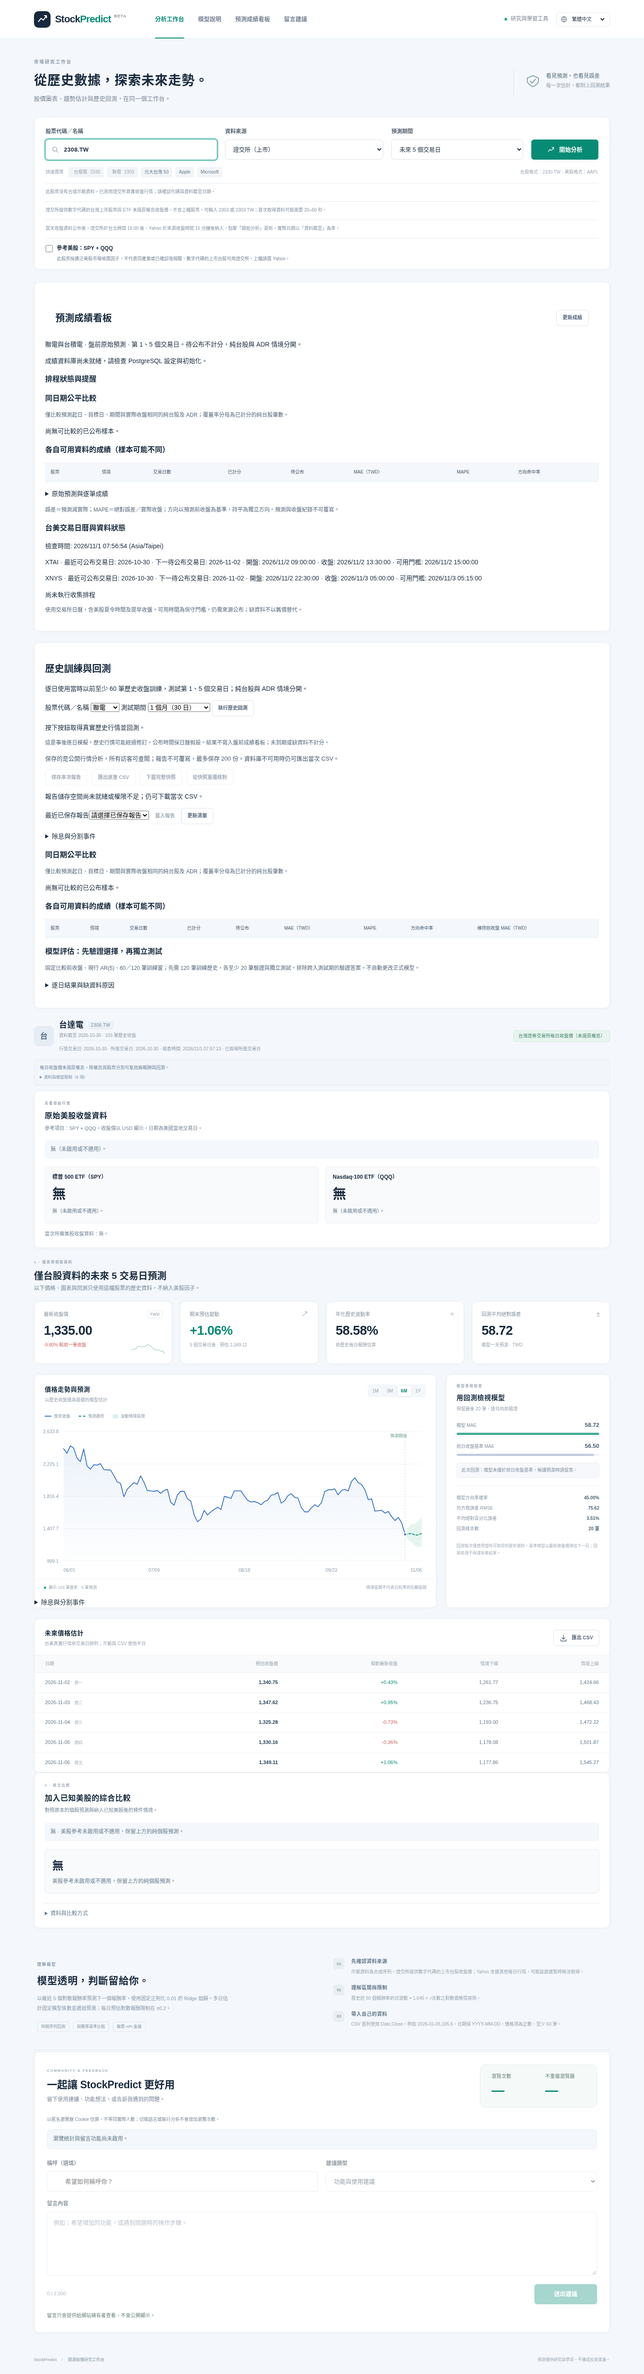
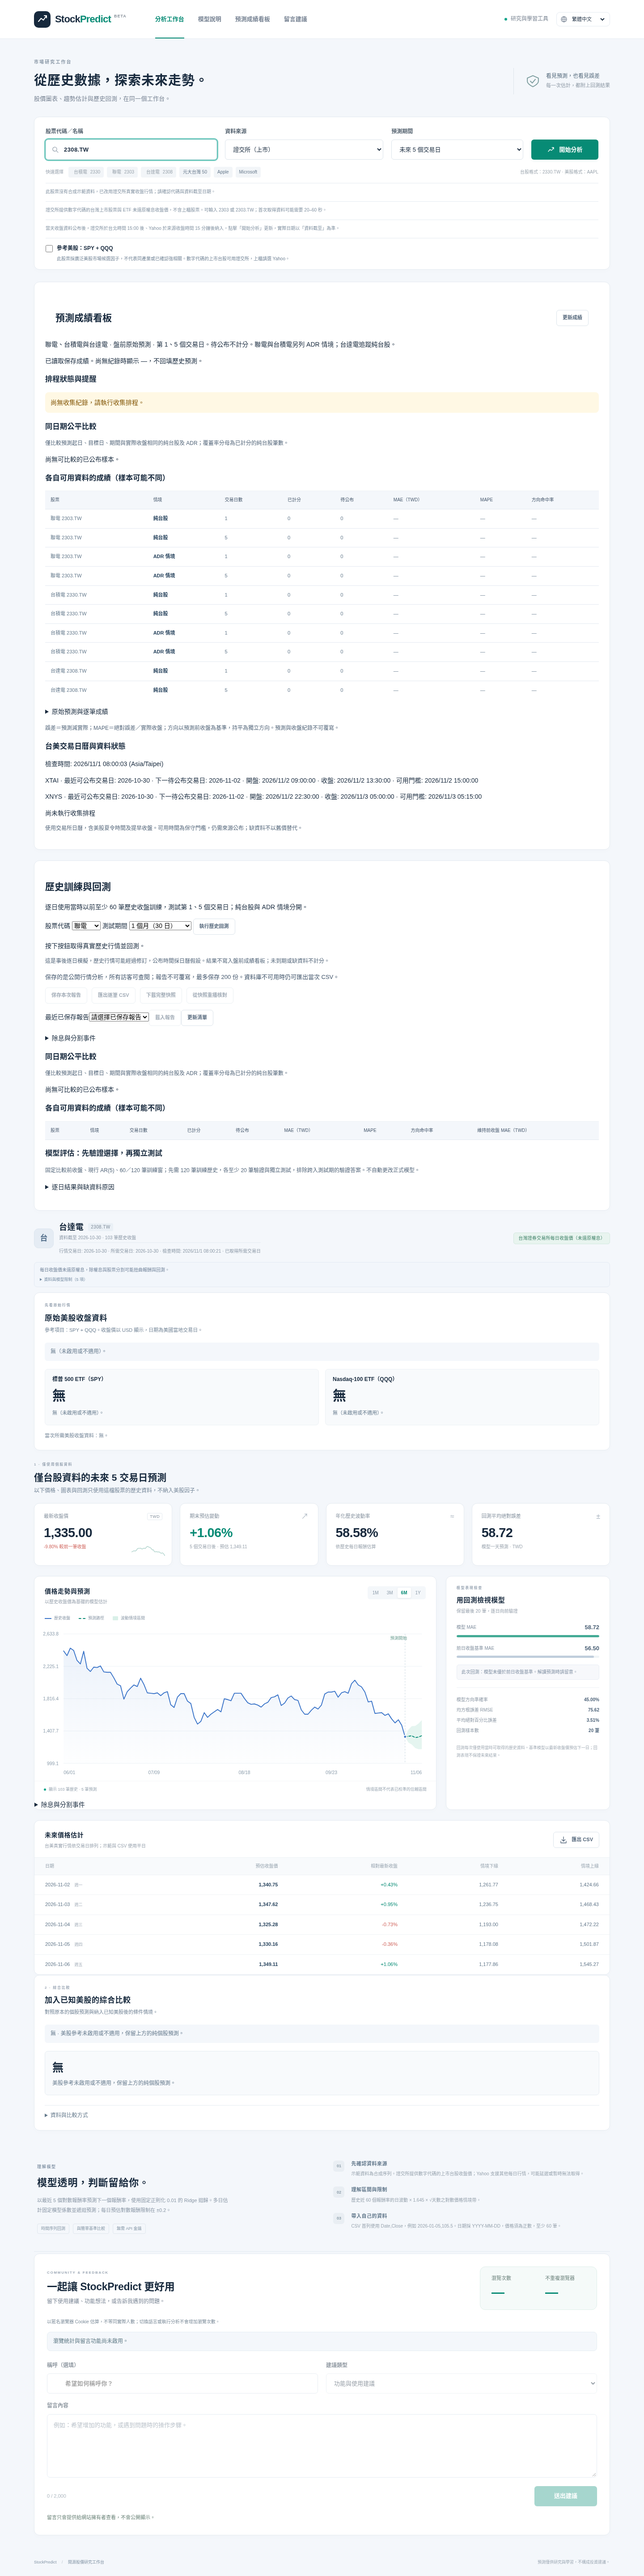
Track Delta Taiwan-only scores and invalidate changed analysis targets

diff --git a/stockpredict/static/scoreboard.js b/stockpredict/static/scoreboard.js
@@ -4,7 +4,7 @@
   i18n.register({
     "zh-TW": {
       "score.title": "預測成績看板", "score.refresh": "更新成績",
-      "score.description": "聯電與台積電 · 盤前原始預測 · 第 1、5 個交易日。待公布不計分，純台股與 ADR 情境分開。",
+      "score.description": "聯電、台積電與台達電 · 盤前原始預測 · 第 1、5 個交易日。待公布不計分。聯電與台積電另列 ADR 情境；台達電追蹤純台股。",
       "score.records": "原始預測與逐筆成績", "score.calendar": "台美交易日曆與資料狀態",
       "score.method": "誤差＝預測減實際；MAPE＝絕對誤差／實際收盤；方向以預測前收盤為基準，持平為獨立方向。預測與收盤紀錄不可覆寫。",
       "score.calendarNote": "使用交易所日曆，含美股夏令時間及提早收盤。可用時間為保守門檻，仍需來源公布；缺資料不以舊價替代。",
@@ -30,7 +30,7 @@
     },
     en: {
       "score.title": "Prediction scoreboard", "score.refresh": "Refresh scores",
-      "score.description": "UMC and TSMC · Original pre-open predictions · Trading days 1 and 5. Pending results are excluded. Taiwan-only and ADR scenarios are scored separately.",
+      "score.description": "UMC, TSMC and Delta Electronics · Original pre-open predictions · Trading days 1 and 5. Pending results are excluded. UMC and TSMC also have separate ADR scores; Delta tracks Taiwan-only forecasts.",
       "score.records": "Original predictions and individual scores", "score.calendar": "Taiwan / US calendar and data status",
       "score.method": "Error = predicted − actual. MAPE = absolute error / actual close. Direction is measured from the base close; flat is a separate direction. Forecasts and closes are immutable.",
       "score.calendarNote": "Exchange calendars include US daylight saving and early closes. Availability is a conservative gate and still requires published source data. Missing dates never use an older price.",
@@ -65,7 +65,7 @@
   }
   const number = value => value == null ? "—" : value.toFixed(2);
   const percent = value => value == null ? "—" : `${number(value)}%`;
-  const stock = symbol => `${symbol === "2303.TW" ? i18n.t("security.umc") : i18n.t("security.tsmc")} ${symbol}`;
+  const stock = symbol => `${i18n.t({"2303.TW":"security.umc","2330.TW":"security.tsmc","2308.TW":"security.delta"}[symbol])} ${symbol}`;
   function row(parent, values, heading = false) {
     const tr = document.createElement("tr");
     values.forEach(value => {

diff --git a/stockpredict/static/index.html b/stockpredict/static/index.html
@@ -56,7 +56,7 @@
         <button class="button button-primary" id="analyze-button" type="submit"><svg viewBox="0 0 24 24" aria-hidden="true"><path d="m4 17 5-6 5 3 6-9M15 5h5v5"/></svg><span data-i18n="controls.analyze">開始分析</span></button>
       </form>
       <div class="controls-footer">
-        <div class="quick-symbols"><span id="symbol-help" data-i18n="controls.quick">快速選擇</span><button type="button" data-symbol="2330.TW"><span data-i18n="security.tsmc">台積電</span> <span>2330</span></button><button type="button" data-symbol="2303.TW" data-source="twse"><span data-i18n="security.umc">聯電</span> <span>2303</span></button><button type="button" data-symbol="0050.TW" data-i18n="security.yuanta">元大台灣 50</button><button type="button" data-symbol="AAPL">Apple</button><button type="button" data-symbol="MSFT">Microsoft</button></div>
+        <div class="quick-symbols"><span id="symbol-help" data-i18n="controls.quick">快速選擇</span><button type="button" data-symbol="2330.TW"><span data-i18n="security.tsmc">台積電</span> <span>2330</span></button><button type="button" data-symbol="2303.TW" data-source="twse"><span data-i18n="security.umc">聯電</span> <span>2303</span></button><button type="button" data-symbol="2308.TW" data-source="twse"><span data-i18n="security.delta">台達電</span> <span>2308</span></button><button type="button" data-symbol="0050.TW" data-i18n="security.yuanta">元大台灣 50</button><button type="button" data-symbol="AAPL">Apple</button><button type="button" data-symbol="MSFT">Microsoft</button></div>
         <span class="small-note" data-i18n="controls.formatHelp">台股格式：2330.TW · 美股格式：AAPL</span>
       </div>
       <p id="symbol-resolution" class="source-help" role="status" data-i18n="controls.realTaiwan" hidden>此股票沒有合成示範資料，已改用證交所真實收盤行情；請確認代碼與資料截至日期。</p>

diff --git a/stockpredict/static/app.js b/stockpredict/static/app.js
@@ -748,8 +748,22 @@
     if(analysis===event.detail.analysis){analysis.corporate_actions=event.detail.actions;renderChart();}
   });
   form.addEventListener("submit", (event) => { event.preventDefault(); runAnalysis(); });
-  source.addEventListener("change", updateSourceUi);
-  symbol.addEventListener("input", updateSourceUi);
+  function formTargetChanged() {
+    if (request) { request.abort(); request = null; ++requestId; setLoading(false); }
+    if (analysis && (analysis.symbol !== resolveSymbol(symbol.value) || analysis.source !== source.value)) {
+      analysis = null;
+      $("results").hidden = true;
+      $("empty-state").hidden = false;
+      window.dispatchEvent(new CustomEvent("stockpredict-data-status", { detail: null }));
+      window.dispatchEvent(new CustomEvent("stockpredict-analysis", { detail: null }));
+    }
+    $("symbol-resolution").hidden = true;
+    $("error-message").hidden = true;
+    errorState = null;
+    updateSourceUi();
+  }
+  source.addEventListener("change", formTargetChanged);
+  symbol.addEventListener("input", formTargetChanged);
   overnightControl.addEventListener("change", updateFactorFilesUi);
   factorSource.addEventListener("change", updateFactorFilesUi);
   $("umc-csv-file").addEventListener("change", (event) => readFactorFile(0, event));

diff --git a/stockpredict/static/i18n.js b/stockpredict/static/i18n.js
@@ -37,6 +37,7 @@
       "controls.quick": "快速選擇",
       "security.tsmc": "台積電",
       "security.umc": "聯電",
+      "security.delta": "台達電",
       "security.yuanta": "元大台灣 50",
       "controls.formatHelp": "台股格式：2330.TW · 美股格式：AAPL",
       "controls.twseHelp": "證交所提供數字代碼的台灣上市股票與 ETF 未還原權息收盤價，不含上櫃股票。可輸入 2303 或 2303.TW；首次取得資料可能需要 20–60 秒。",
@@ -302,6 +303,7 @@
       "controls.quick": "Quick picks",
       "security.tsmc": "TSMC",
       "security.umc": "UMC",
+      "security.delta": "Delta Electronics",
       "security.yuanta": "Yuanta Taiwan 50",
       "controls.formatHelp": "Taiwan: 2330.TW · US: AAPL",
       "controls.twseHelp": "TWSE provides unadjusted closes for Taiwan-listed stocks and ETFs with numeric symbols, excluding OTC stocks. Enter 2303 or 2303.TW. The first download may take 20–60 seconds.",

diff --git a/tests/test_scoreboard.py b/tests/test_scoreboard.py
@@ -259,8 +259,10 @@ def test_job_captures_both_scenarios_and_reports_provider_failure(database, monk
         },
     )
     first = score.run_job()
-    assert all(c["taiwan"] == c["adr"] == "saved" for c in first)
-    assert all(c["taiwan"] == c["adr"] == "already_saved" for c in score.run_job())
+    assert all(c[s] == "saved" for c in first for s in score.scenarios_for(c["symbol"]))
+    assert all(
+        c[s] == "already_saved" for c in score.run_job() for s in score.scenarios_for(c["symbol"])
+    )
 
     def unavailable(symbol):
         from stockpredict.data import DataSourceError
@@ -271,7 +273,7 @@ def test_job_captures_both_scenarios_and_reports_provider_failure(database, monk
     checks = score.run_job()
     assert all(c["status"] == "unavailable" and c["checked_at"] for c in checks)
     body = TestClient(app).get("/api/scoreboard").json()
-    assert len(body["predictions"]) == 8
+    assert len(body["predictions"]) == 10
     assert body["last_check"]["details"] == checks
 
 
@@ -288,10 +290,12 @@ def test_job_after_cutoff_collects_actuals_without_generating_forecasts(database
     monkeypatch.setattr(twse, "twse_data", lambda symbol: (POINTS, {"source": "twse"}))
     monkeypatch.setattr(main, "_market_analysis", lambda *a, **kw: pytest.fail("Late forecast"))
     checks = score.run_job()
-    assert all(c["taiwan"] == c["adr"] == "after_cutoff" for c in checks)
+    assert all(c[s] == "after_cutoff" for c in checks for s in score.scenarios_for(c["symbol"]))
     with database() as conn:
         assert conn.execute("SELECT count(*) AS n FROM sp_predictions").fetchone()["n"] == 0
-        assert conn.execute("SELECT count(*) AS n FROM sp_actual_closes").fetchone()["n"] == 2
+        assert conn.execute("SELECT count(*) AS n FROM sp_actual_closes").fetchone()["n"] == len(
+            score.SYMBOLS
+        )
 
 
 def test_full_trading_week_lifecycle_uses_real_models_and_immutable_postgres(database, monkeypatch):
@@ -355,18 +359,20 @@ def test_full_trading_week_lifecycle_uses_real_models_and_immutable_postgres(dat
     client = TestClient(app)
 
     checks = score.run_job()
-    assert all(c["taiwan"] == c["adr"] == "saved" for c in checks)
+    assert all(c[s] == "saved" for c in checks for s in score.scenarios_for(c["symbol"]))
     with database() as conn:
         originals = conn.execute("SELECT id,snapshot FROM sp_predictions ORDER BY id").fetchall()
-    assert len(originals) == 4
+    assert len(originals) == 5
 
     clock.update(now=datetime.fromisoformat("2026-11-02T08:30:00+08:00"), correction=0.5)
-    assert all(c["taiwan"] == c["adr"] == "already_saved" for c in score.run_job())
+    assert all(
+        c[s] == "already_saved" for c in score.run_job() for s in score.scenarios_for(c["symbol"])
+    )
 
     clock["now"] = datetime.fromisoformat("2026-11-02T14:59:59+08:00")
     score.run_job()
     pending = client.get("/api/scoreboard").json()
-    assert len(pending["predictions"]) == 8
+    assert len(pending["predictions"]) == 10
     assert all(r["status"] == "pending" for r in pending["predictions"])
     assert all(c["paired_samples"] == 0 for c in pending["comparison"])
 
@@ -382,9 +388,11 @@ def test_full_trading_week_lifecycle_uses_real_models_and_immutable_postgres(dat
     )
 
     clock["now"] = datetime.fromisoformat("2026-11-03T09:00:00+08:00")
-    assert all(c["taiwan"] == c["adr"] == "after_cutoff" for c in score.run_job())
+    assert all(
+        c[s] == "after_cutoff" for c in score.run_job() for s in score.scenarios_for(c["symbol"])
+    )
     with database() as conn:
-        assert conn.execute("SELECT count(*) AS n FROM sp_predictions").fetchone()["n"] == 4
+        assert conn.execute("SELECT count(*) AS n FROM sp_predictions").fetchone()["n"] == 5
     late = client.get("/api/scoreboard").json()
     alerts = health_alerts(
         late["predictions"],
@@ -392,13 +400,13 @@ def test_full_trading_week_lifecycle_uses_real_models_and_immutable_postgres(dat
         datetime.fromisoformat("2026-11-02T08:10:00+08:00"),
         now=datetime.fromisoformat("2026-11-03T09:45:00+08:00"),
     )
-    assert len([a for a in alerts if a["code"] == "preopen_missing"]) == 4
+    assert len([a for a in alerts if a["code"] == "preopen_missing"]) == 5
 
     for d in future[1:]:
         clock["now"] = datetime.fromisoformat(f"{d}T15:30:00+08:00")
         score.run_job()
     completed = client.get("/api/scoreboard").json()
-    assert len(completed["predictions"]) == 8
+    assert len(completed["predictions"]) == 10
     assert all(r["status"] == "scored" for r in completed["predictions"])
     assert all(c["paired_samples"] == 1 and c["adr_coverage"] == 1 for c in completed["comparison"])
     for r in completed["predictions"]:
@@ -408,3 +416,24 @@ def test_full_trading_week_lifecycle_uses_real_models_and_immutable_postgres(dat
             conn.execute("SELECT id,snapshot FROM sp_predictions ORDER BY id").fetchall()
             == originals
         )
+
+
+def test_delta_archive_migrates_legacy_constraint_and_rejects_adr(database):
+    with database() as conn:
+        conn.execute("ALTER TABLE sp_predictions DROP CONSTRAINT sp_predictions_symbol_check")
+        conn.execute(
+            "ALTER TABLE sp_predictions ADD CONSTRAINT sp_predictions_symbol_check "
+            "CHECK (symbol IN ('2303.TW','2330.TW'))"
+        )
+        save(conn)
+    with database() as conn:
+        score.initialize(conn)
+        assert score.save_prediction(conn, "2308.TW", "taiwan", POINTS, PATH, NOW, {}) == "saved"
+        with pytest.raises(ValueError):
+            score.save_prediction(conn, "2308.TW", "adr", POINTS, PATH, NOW, {})
+        assert conn.execute("SELECT count(*) AS n FROM sp_predictions").fetchone()["n"] == 2
+    body = TestClient(app).get("/api/scoreboard").json()
+    delta = [s for s in body["summary"] if s["symbol"] == "2308.TW"]
+    assert len(delta) == 2
+    assert {s["scenario"] for s in delta} == {"taiwan"}
+    assert all(s["samples"] == 0 and s["pending"] == 1 for s in delta)

diff --git a/stockpredict/scoreboard.py b/stockpredict/scoreboard.py
@@ -17,9 +17,13 @@ from stockpredict.comparison import paired_comparison
 from stockpredict.provenance import model_manifest
 
 router = APIRouter()
-SYMBOLS = ("2303.TW", "2330.TW")
+SYMBOLS = ("2303.TW", "2330.TW", "2308.TW")
 SCENARIOS = ("taiwan", "adr")
 MODEL = "ar5_adr_directional_v1"
+
+
+def scenarios_for(symbol):
+    return ("taiwan",) if symbol == "2308.TW" else SCENARIOS
 
 
 def connect():
@@ -34,7 +38,7 @@ def initialize(connection):
     connection.execute("""
         CREATE TABLE IF NOT EXISTS sp_predictions (
             id BIGSERIAL PRIMARY KEY,
-            symbol TEXT NOT NULL CHECK (symbol IN ('2303.TW','2330.TW')),
+            symbol TEXT NOT NULL CHECK (symbol IN ('2303.TW','2330.TW','2308.TW')),
             scenario TEXT NOT NULL CHECK (scenario IN ('taiwan','adr')),
             target_date DATE NOT NULL, created_at TIMESTAMPTZ NOT NULL,
             base_date DATE NOT NULL, base_close DOUBLE PRECISION NOT NULL CHECK (base_close > 0),
@@ -67,6 +71,14 @@ def initialize(connection):
         CREATE TRIGGER sp_actual_closes_no_truncate BEFORE TRUNCATE ON sp_actual_closes
             FOR EACH STATEMENT EXECUTE FUNCTION sp_reject_archive_mutation();
     """)
+    connection.execute("""
+        ALTER TABLE sp_predictions DROP CONSTRAINT IF EXISTS sp_predictions_symbol_check;
+        ALTER TABLE sp_predictions ADD CONSTRAINT sp_predictions_symbol_check
+            CHECK (symbol IN ('2303.TW','2330.TW','2308.TW'));
+        ALTER TABLE sp_predictions DROP CONSTRAINT IF EXISTS sp_predictions_delta_scenario_check;
+        ALTER TABLE sp_predictions ADD CONSTRAINT sp_predictions_delta_scenario_check
+            CHECK (symbol <> '2308.TW' OR scenario = 'taiwan');
+    """)
     from stockpredict.backtest_runs import ensure_initialized
 
     ensure_initialized(connection)
@@ -86,7 +98,7 @@ def capture_reason(points, now):
 
 def save_prediction(connection, symbol, scenario, points, path, now, provenance):
     """First on-time snapshot wins. Late/stale/partial forecasts cannot enter the archive."""
-    if symbol not in SYMBOLS or scenario not in SCENARIOS or now.utcoffset() is None:
+    if symbol not in SYMBOLS or scenario not in scenarios_for(symbol) or now.utcoffset() is None:
         raise ValueError("Invalid prediction context")
     reason = capture_reason(points, now)
     if reason:
@@ -169,7 +181,7 @@ def evaluate(predictions, actuals):
                 }
             )
     for symbol in SYMBOLS:
-        for scenario in SCENARIOS:
+        for scenario in scenarios_for(symbol):
             for horizon in (1, 5):
                 group = [
                     r
@@ -192,7 +204,11 @@ def evaluate(predictions, actuals):
                         else None,
                     }
                 )
-    return {"summary": summary, "predictions": rows, "comparison": paired_comparison(rows)}
+    return {
+        "summary": summary,
+        "predictions": rows,
+        "comparison": paired_comparison([r for r in rows if "adr" in scenarios_for(r["symbol"])]),
+    }
 
 
 @router.get("/api/scoreboard")
@@ -346,9 +362,9 @@ def run_job():
             details = {"symbol": symbol, **status}
             reason = capture_reason(points, now)
             if reason:
-                details.update({scenario: reason for scenario in SCENARIOS})
+                details.update({scenario: reason for scenario in scenarios_for(symbol)})
             if status["status"] == "current" and reason is None:
-                for scenario in SCENARIOS:
+                for scenario in scenarios_for(symbol):
                     result = _market_analysis(
                         symbol,
                         "twse",

diff --git a/stockpredict/engineering_loop.py b/stockpredict/engineering_loop.py
@@ -146,17 +146,17 @@ def live_acceptance(report, *, now=None):
             valid = False
         if valid and row.get("status") == "scored":
             cohorts.setdefault(origin, {})[(row["symbol"], row["scenario"], row["horizon"])] = row
-    required = {
-        (s, c, h) for s in ("2303.TW", "2330.TW") for c in ("taiwan", "adr") for h in (1, 5)
-    }
+    from stockpredict.scoreboard import SYMBOLS, scenarios_for
+
+    required = {(s, c, h) for s in SYMBOLS for c in scenarios_for(s) for h in (1, 5)}
     complete = []
     for origin, cohort in cohorts.items():
         if not required <= cohort.keys():
             continue
         if all(
             cohort[s, c, 1][field] == cohort[s, c, 5][field]
-            for s in ("2303.TW", "2330.TW")
-            for c in ("taiwan", "adr")
+            for s in SYMBOLS
+            for c in scenarios_for(s)
             for field in ("id", "created_at", "base_close")
         ):
             complete.append(origin)

diff --git a/stockpredict/monitoring.py b/stockpredict/monitoring.py
@@ -46,8 +46,14 @@ def health_alerts(rows, last_check, started_at, *, now=None):
         and _instant(started_at) <= opens_at(day)
         and now >= opens_at(day) + timedelta(minutes=15)
     ):
-        for symbol in ("2303.TW", "2330.TW"):
-            for scenario in ("taiwan", "adr"):
+        from stockpredict.scoreboard import SYMBOLS, scenarios_for
+
+        for symbol in SYMBOLS:
+            if symbol == "2308.TW" and not any(
+                c.get("symbol") == symbol for c in last_check.get("details", [])
+            ):
+                continue
+            for scenario in scenarios_for(symbol):
                 if not any(
                     r["symbol"] == symbol
                     and r["scenario"] == scenario

diff --git a/stockpredict/historical.py b/stockpredict/historical.py
@@ -24,9 +24,10 @@ from stockpredict.market_data import overnight_factors
 from stockpredict.model_review import review_models
 from stockpredict.overnight import build_context
 from stockpredict.reference_profiles import profile_for
-from stockpredict.scoreboard import SYMBOLS, evaluate
+from stockpredict.scoreboard import evaluate
 from stockpredict.twse import twse_data
 
+SYMBOLS = ("2303.TW", "2330.TW")
 router = APIRouter()
 PERIOD_DAYS = {1: 30, 3: 90, 6: 180, 12: 365}
 

diff --git a/tests/test_engineering_loop.py b/tests/test_engineering_loop.py
@@ -37,7 +37,9 @@ def cohort():
     path = date_path([{}] * 5, "2026-10-01", "XTAI")
     records = []
     for index, (symbol, scenario) in enumerate(
-        (s, c) for s in ("2303.TW", "2330.TW") for c in ("taiwan", "adr")
+        (s, c)
+        for s in ("2303.TW", "2330.TW", "2308.TW")
+        for c in (("taiwan",) if s == "2308.TW" else ("taiwan", "adr"))
     ):
         for h in (1, 5):
             records.append(

diff --git a/ENGINEERING_LOOP.md b/ENGINEERING_LOOP.md
@@ -24,8 +24,8 @@
 - 盤後拒收新預測，漏存時產生警報。
 - 第 1、5 個交易日分別計分，同日期配對比較，原始紀錄始終保持一致。
 
-真實驗收則讀取正式 `/api/scoreboard`，至少需要同一個起日的兩檔股票、
-兩種情境、兩個期間共八筆已計分紀錄。檢查保存時點在目標交易日開盤前、
+真實驗收則讀取正式 `/api/scoreboard`，至少需要同一個起日的聯電、台積電
+各兩種情境，以及台達電純台股情境，兩個期間共十筆已計分紀錄。檢查保存時點在目標交易日開盤前、
 第 1／5 日日期正確、實際收盤已過公布門檻，以及兩期間屬於同一筆原始預測。
 空看板、歷史回測及模擬測試不能當成此項驗收成功。
 

diff --git a/README.md b/README.md
@@ -174,3 +174,5 @@ tests/          # 自動化測試
 ```
 
 本版為個人研究與 Side Project，沒有持倉、交易下單或投資績效保證。訪客不需登入，私人建議由持有管理金鑰的站主查看。行情 CSV 不持久儲存；啟用資料庫後僅瀏覽統計與送出的建議持久保存。正式營運仍需依實際需求管理服務、資料授權與營運監控。
+
+台達電 `2308.TW` 已加入盤前預測成績追蹤，僅保存純台股情境，不建立虛構 ADR 成績。新版收集工作執行時會自動擴充既有資料表的股票代號限制，保留原始紀錄與不可覆寫保護；不回填過去盤前預測。回溯訓練頁目前仍提供聯電與台積電。
